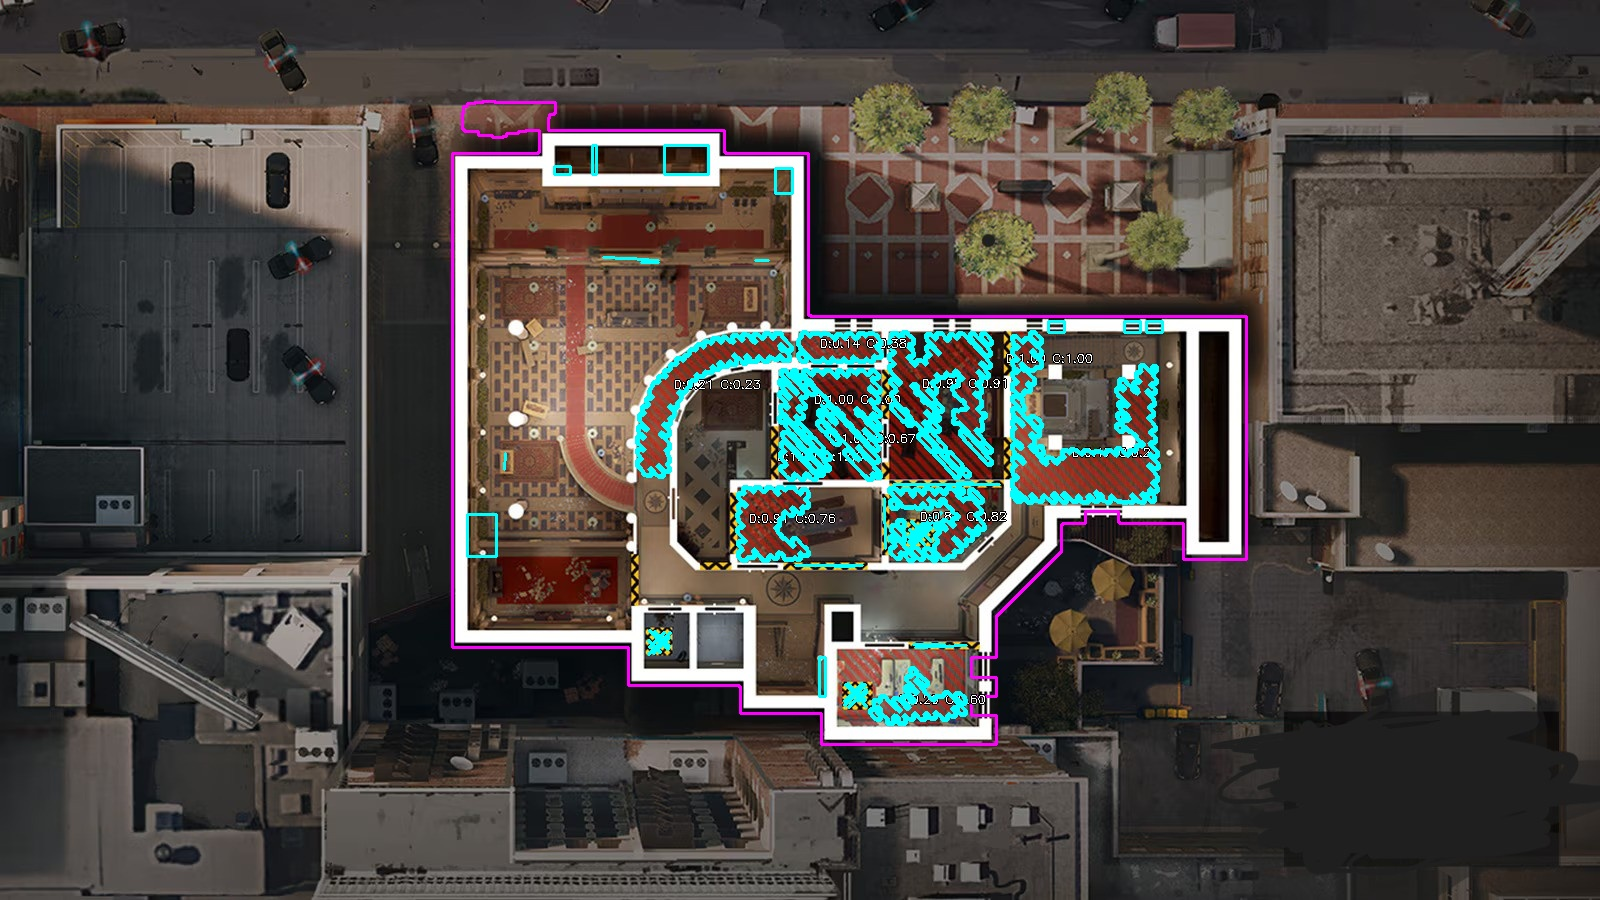
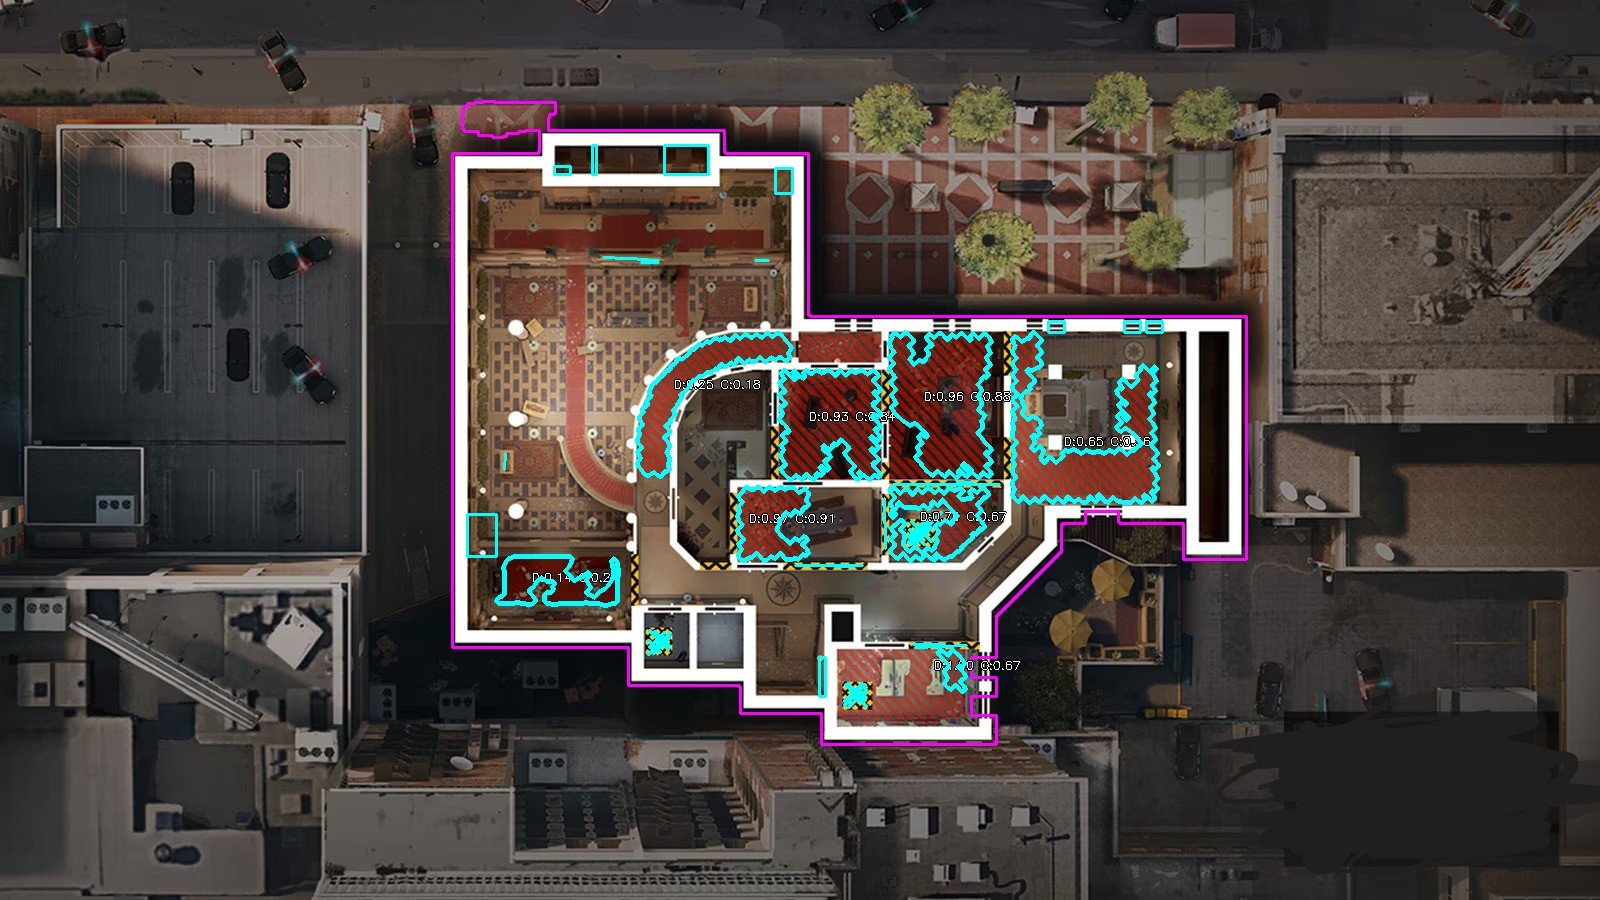
LOS Final Fix

Changed region(s): [[0.375, 0.3422, 0.75, 0.6222], [0.5312, 0.7156, 0.625, 0.8089], [0.3125, 0.5911, 0.4062, 0.6844]]

diff --git a/process_map.py b/process_map.py
@@ -197,7 +197,9 @@ def process_map(image_filename, output_filename):
                 if mask_roi[cY, cX] == 0:
                     continue 
 
-            epsilon = 0.002 * cv2.arcLength(cnt, True)
+            # SMOOTHING (V13): Reduced epsilon to 0.001 (High Detail) + Mask Smoothing
+            # This avoids "spikey" shards by tracing the smoothed mask closely.
+            epsilon = 0.001 * cv2.arcLength(cnt, True)
             approx = cv2.approxPolyDP(cnt, epsilon, True)
             points = [[int(p[0][0] - w_img/2), int(-(p[0][1] - h_img/2))] for p in approx]
 
@@ -294,6 +296,10 @@ def process_map(image_filename, output_filename):
     # Red Floors - Skip/Min cleaning
     # Use LOOSE red for floors
     floors_red = cv2.bitwise_and(mask_red_loose_fused, mask_red_loose_fused, mask=mask_floors_area)
+    
+    # SMOOTHING MASK (V13): Flatten pixel stairs before finding contours
+    floors_red = cv2.medianBlur(floors_red, 5)
+    
     # No opening here to save thin lines
     cnt_r, _ = cv2.findContours(floors_red, cv2.RETR_EXTERNAL, cv2.CHAIN_APPROX_SIMPLE)
     floors_r_found = contours_to_json(cnt_r, "floor_los", "floor")
